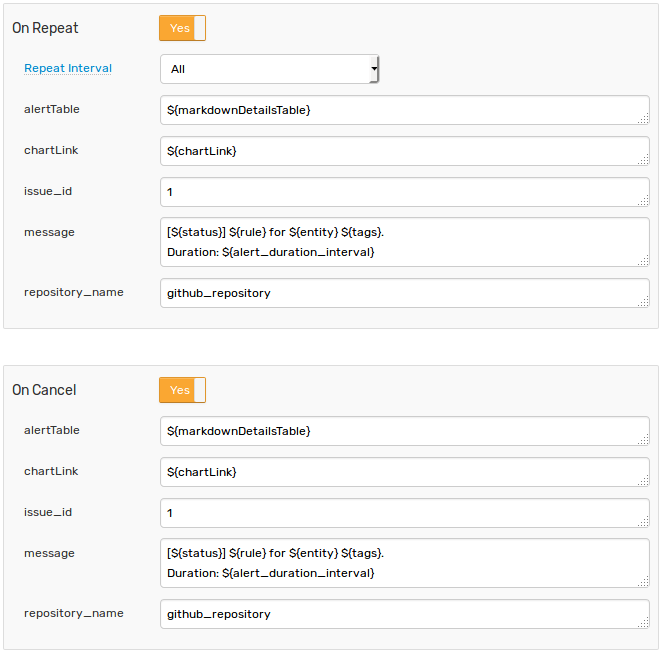
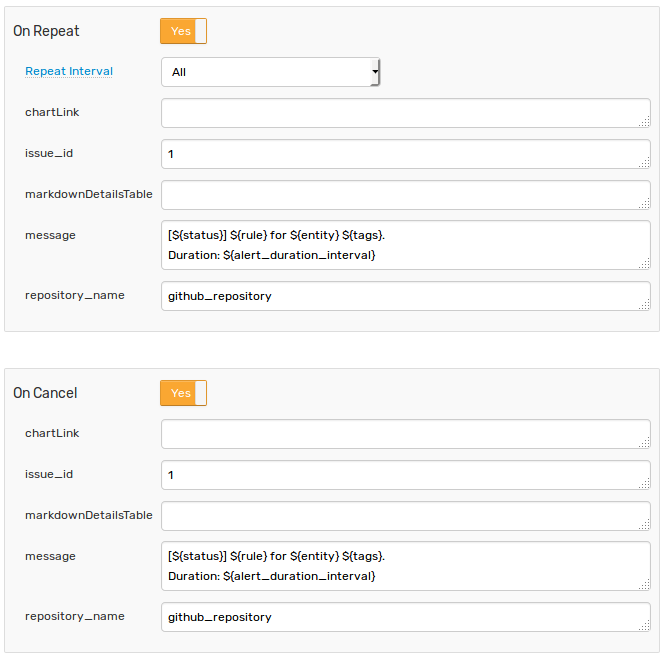
instruction fixed

diff --git a/rule-engine/notifications/custom-github.md b/rule-engine/notifications/custom-github.md
@@ -2,13 +2,13 @@
 
 ## Overview
 
-The following example demonstrates how to add a comment to an existing issue at [GitHub](https://github.com/) using a [`CUSTOM`](custom.md) web notification in the ATSD rule engine.
+The following example demonstrates how to add a comment to an existing issue in [GitHub](https://github.com/) using a [`CUSTOM`](custom.md) web notification in the ATSD rule engine.
 
-The integration relies on the [GitHub API](https://developer.github.com/v3/issues/comments/#create-a-comment) `create-a-comment` method for adding a single comment to a specified issue.
+The integration relies on the [GitHub API](https://developer.github.com/v3/issues/comments/#create-a-comment) `create-a-comment` method.
 
 ## Configuration
 
-Create a new `CUSTOM` web notification from scratch or import the [template](resources/custom-github-notification.xml) used in this example. To import the XML template file, open the **Alerts > Web Notifications** page, select **Import** in the multi-action button located below the table and follow the prompts.
+Create a new `CUSTOM` web notification or import the [template](resources/custom-github-notification.xml) used in this example. To import the XML template file, open the **Alerts > Web Notifications** page, select **Import** in the multi-action button located below the table and follow the prompts.
 
 To create a new notification, open the **Alerts > Web Notifications** page and click **Create**.
 
@@ -28,7 +28,7 @@ Modify the `Endpoint URL` by replacing the `<GITHUB_USER>` field with your githu
 
 The `Endpoint URL` should look as follows: `https://api.github.com/repos/axibase/${repository_name}/issues/${issue_id}/comments`
 
-Keep the `${repository_name}` and `${issue_id}` placeholders in the URL path so that one can customize them in the rule editor. This would allow you to add a comments for different issues using the same web notification.
+Keep the `${repository_name}` and `${issue_id}` placeholders in the URL path so that one can customize them in the rule editor. This would allow you to add a comments to different issues using the same web notification.
 
 Enter an existing authorization token in `Authorization` header or create a new one.
 
@@ -42,6 +42,8 @@ curl \
     -X POST https://api.github.com/authorizations \
     -d '{"note": "ATSD authorization", "scopes": ["public_repo"]}'
 ```
+
+You will be asked to enter a user password.
 
 If operation succeeds, new authorization token will be presented in response (field `token`)
 
@@ -68,17 +70,39 @@ If operation succeeds, new authorization token will be presented in response (fi
 }
 ``` 
 
+Also token may be created using Github web interface. Go to user settings
+
+![](images/github_ui_token_1.png)
+
+Open developer settings tab
+
+![](images/github_ui_token_2.png)
+
+Click **Generate new token** button
+
+![](images/github_ui_token_3.png)
+
+Enter token description, choose **public_repo** scope and click **Generate token**.
+
+![](images/github_ui_token_4.png)
+
+Your new token will be available at **Personal access tokens** page. Copy this token because you would not be able to see it again.
+
+![](images/github_ui_token_5.png)
+
 ### Payload
 
-The web notification can be configured to send a JSON document to the GitHub endpoint in order to add a comment and the `Body` field can include the following text:
+Enter the following text into the `Body` field:
 
 ```
 {
-  "body": "${message}\n\n[Chart](${chartLink})\n\n${alertTable}"
+  "body": "${message}\n\n[Chart](${chartLink})\n\n${htmlDetailsTable}"
 }
 ```
 
-Make sure that you enclose fields with double quotes, if necessary.
+The `body` text contains placeholders that will be substituted with actual values when the notification is triggered. 
+
+The placeholders specified in the payload and the URL are visible as editable parameters in the rule editor.
 
 ![](images/github_endpoint.png)
 
@@ -102,14 +126,12 @@ Open the **Web Notifications** tab.
 
 Set **Enabled** to **Yes** and choose the previously created web notification from the **Endpoint** drop-down.
 
-Enable **Open**, **Repeat** and **Close** triggers. Set the **Repeat Interval** to **All**.
+Enable **Open**, **Repeat** and **Cancel** triggers. Set the **Repeat Interval** to **All**. Leave **chartLink** and **markdownDetailsTable** empty.
 
 Specify the following settings for **Open** trigger:
 
 | **Name** | **Value** |
 | :-------- | :---- |
-| alertTable  | `${markdownDetailsTable}` |
-| chartLink | `${chartLink}` |
 | issue_id | `1` |
 | message | `[${status}] ${rule} for ${entity} ${tags}` |
 | repository_name | `github_repository` |
@@ -120,8 +142,6 @@ For **Repeat** and **Cancel** triggers:
 
 | **Name** | **Value** |
 | :-------- | :---- |
-| alertTable  | `${markdownDetailsTable}` |
-| chartLink | `${chartLink}` |
 | issue_id | `1` |
 | message | `[${status}] ${rule} for ${entity} ${tags}`<br>`Duration: ${alert_duration_interval}` |
 | repository_name | `github_repository` |
@@ -134,9 +154,11 @@ When the notification is executed, all placeholders in the request URL will be r
 
 `https://api.github.com/repos/username/github_repository/issues/1/comments`
 
-Request body parameters will be resolved in the same way.
-
-If the placeholder is not found, it will be substituted with an empty string.
+```
+{
+  "body": "[OPEN] Github for test_e {}\n\n[Chart](chart link)\n\n| **Name** | **Value**|..."
+}
+```
 
 ## Test
 
